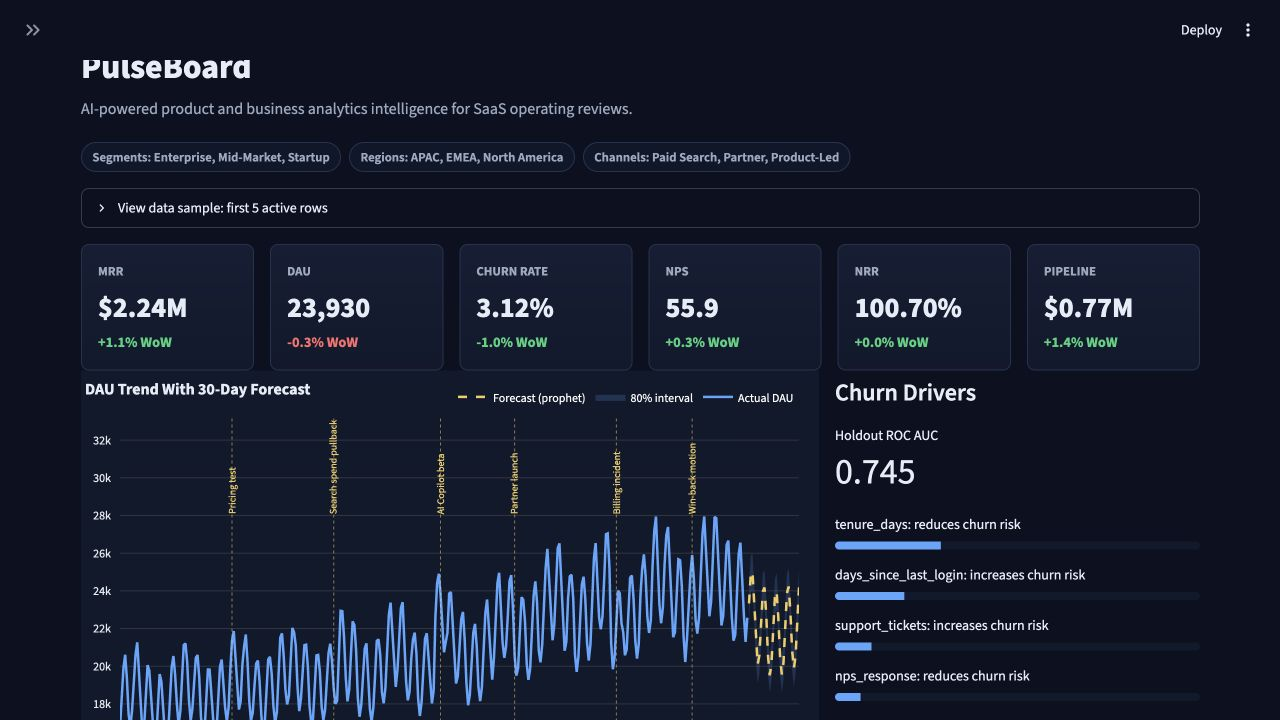
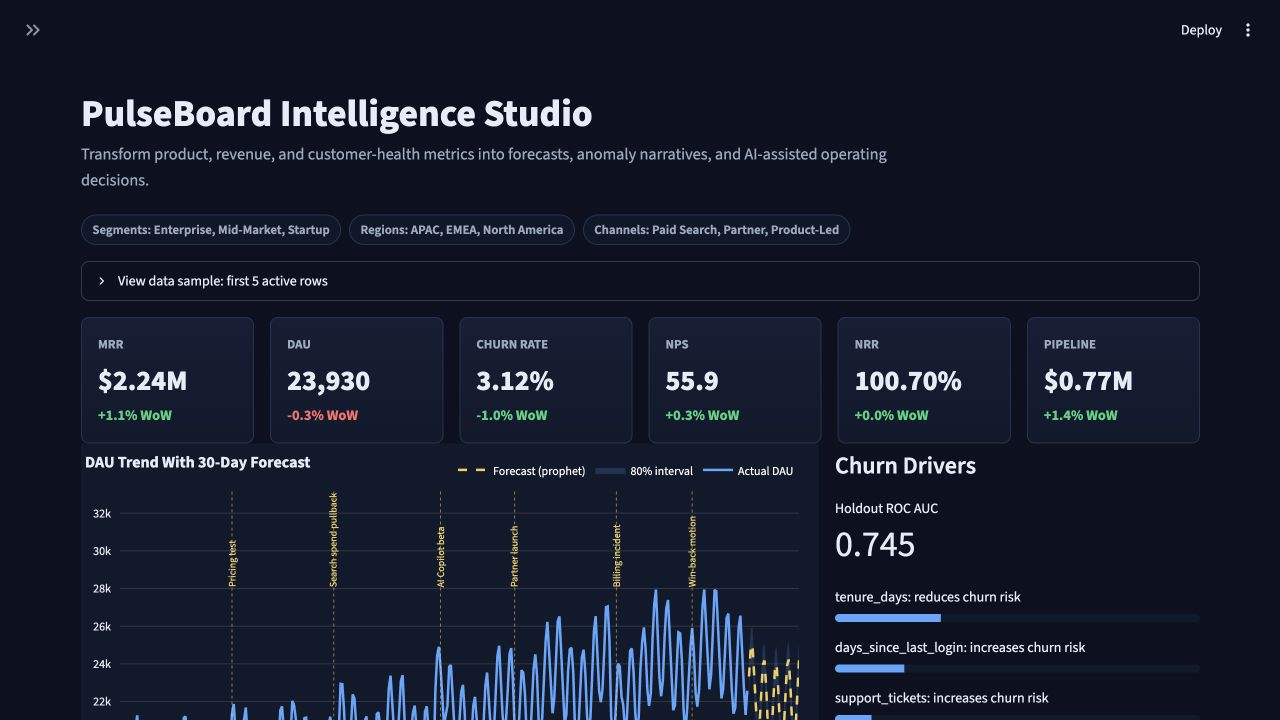
Refine dashboard title and README positioning

diff --git a/dashboard/layout.py b/dashboard/layout.py
@@ -41,10 +41,11 @@ def configure_page() -> None:
         }
         .stApp { background: var(--pb-bg); color: var(--pb-text); }
         [data-testid="stSidebar"] { background: #0e1628; border-right: 1px solid var(--pb-border); }
-        .block-container { padding-top: 1.5rem; padding-bottom: 2rem; }
+        .block-container { padding-top: 4rem; padding-bottom: 2rem; }
         h1, h2, h3 { letter-spacing: 0; }
-        .pb-title { font-size: 2.1rem; font-weight: 760; margin-bottom: 0.15rem; }
-        .pb-subtitle { color: var(--pb-muted); font-size: 1rem; margin-bottom: 1.25rem; }
+        .pb-header { margin-top: 0.75rem; margin-bottom: 1.35rem; }
+        .pb-title { font-size: 2.35rem; font-weight: 780; line-height: 1.15; margin-bottom: 0.35rem; }
+        .pb-subtitle { color: var(--pb-muted); font-size: 1.02rem; max-width: 820px; }
         .pb-card {
             background: linear-gradient(180deg, #151e35 0%, #11192c 100%);
             border: 1px solid var(--pb-border);
@@ -94,9 +95,13 @@ def configure_page() -> None:
 def render_header() -> None:
     """Render the dashboard title area."""
 
-    st.markdown('<div class="pb-title">PulseBoard</div>', unsafe_allow_html=True)
     st.markdown(
-        '<div class="pb-subtitle">AI-powered product and business analytics intelligence for SaaS operating reviews.</div>',
+        """
+        <div class="pb-header">
+            <div class="pb-title">PulseBoard Intelligence Studio</div>
+            <div class="pb-subtitle">Transform product, revenue, and customer-health metrics into forecasts, anomaly narratives, and AI-assisted operating decisions.</div>
+        </div>
+        """,
         unsafe_allow_html=True,
     )
 

diff --git a/README.md b/README.md
@@ -1,4 +1,4 @@
-# PulseBoard
+# PulseBoard Intelligence Studio
 
 [![Python 3.11+](https://img.shields.io/badge/python-3.11%2B-3776AB?logo=python&logoColor=white)](https://www.python.org/)
 [![Streamlit](https://img.shields.io/badge/Streamlit-dashboard-FF4B4B?logo=streamlit&logoColor=white)](https://streamlit.io/)
@@ -6,7 +6,7 @@
 [![Plotly](https://img.shields.io/badge/Plotly-visualization-3F4F75?logo=plotly&logoColor=white)](https://plotly.com/python/)
 [![Claude](https://img.shields.io/badge/Claude-executive%20insights-191919)](https://www.anthropic.com/)
 
-PulseBoard is an AI-powered Product & Business Analytics Intelligence Dashboard for SaaS metrics. It generates realistic product telemetry, runs forecasting and anomaly detection pipelines, explains churn drivers with SHAP, and turns weekly KPI movement into executive-ready narratives with Claude.
+PulseBoard Intelligence Studio is an AI-powered product and business analytics dashboard for turning SaaS operating metrics into clearer decisions. It works with either built-in synthetic data or uploaded CSV files, then layers forecasting, anomaly detection, churn-driver explanation, and AI-generated analysis on top of the data.
 
 ![PulseBoard dashboard screenshot](docs/pulseboard-screenshot.png)
 
@@ -14,10 +14,10 @@ Repository: [github.com/Robertcurzon/PulseBoard](https://github.com/Robertcurzon
 
 ## What It Shows
 
-- Synthetic SaaS data with 12 months of daily DAU, MAU, signups, churn, ARPU, MRR, feature adoption, NPS, A/B variants, retention cohorts, injected KPI anomalies, and annotated business events.
-- Filterable mock operating dataset across customer segments, regions, and acquisition channels so the dashboard can be used live in a portfolio walkthrough.
+- SaaS operating data from either the built-in synthetic dataset or an uploaded CSV, with support for up to 12 months of daily DAU, MAU, signups, churn, ARPU, MRR, feature adoption, NPS, A/B variants, retention cohorts, KPI anomalies, and annotated business events.
+- Filterable product and business views across customer segments, regions, and acquisition channels.
 - ML pipeline with feature engineering, churn prediction, Isolation Forest anomaly detection, Prophet-first forecasting with a statsmodels fallback, and SHAP feature attribution.
-- LLM insight generation using the Anthropic Python SDK with graceful offline placeholders when `ANTHROPIC_API_KEY` is not configured.
+- LLM insight generation using the Anthropic Python SDK, with graceful offline placeholders when `ANTHROPIC_API_KEY` is not configured.
 - Streamlit dashboard with dark executive styling, collapsible data preview, KPI cards, forecast overlays, segment mix, acquisition funnel, pipeline quality, feature adoption, anomaly narratives, cohort heatmaps, CSV upload, an AI analyst agent, and weekly insight feed.
 
 ## Architecture
@@ -64,9 +64,9 @@ PulseBoard is built for Streamlit hosting, so the easiest public demo path is:
 2. Create a new app in Streamlit Community Cloud.
 3. Point it at this repository, branch `main`, and app path `dashboard/app.py`.
 4. Add `ANTHROPIC_API_KEY` as an app secret if you want live Claude narratives. Leave it unset for deterministic offline demo text.
-5. Share the generated Streamlit app URL with colleagues.
+5. Share the generated Streamlit app URL with collaborators, stakeholders, or anyone who needs to explore the dashboard.
 
-After deployment, add the live app URL near the top of this README so recruiters and interviewers can open the dashboard directly.
+After deployment, add the live app URL near the top of this README so people can open the dashboard directly without cloning the repository.
 
 The same repo also works on Render, Railway, Hugging Face Spaces, or any Python web host that can run:
 
@@ -120,9 +120,9 @@ Good demo prompts:
 
 ## Case Study Walkthrough
 
-**Problem.** SaaS teams often have plenty of metrics but limited time to connect product usage, revenue movement, customer health, and operational incidents into an executive-ready story.
+**Problem.** Product and revenue teams often have plenty of metrics but limited time to connect product usage, conversion, retention, customer health, and operational incidents into a clear operating story.
 
-**Approach.** PulseBoard creates a realistic product analytics environment with segment, region, and acquisition-channel slices. It validates either built-in mock data or an uploaded CSV, then applies anomaly detection, forecasting, churn explanation, and LLM-generated narrative layers.
+**Approach.** PulseBoard creates a realistic analytics environment with segment, region, and acquisition-channel slices. It validates either built-in mock data or an uploaded CSV, then applies anomaly detection, forecasting, churn explanation, and AI-generated narrative layers.
 
 **ML and AI components.**
 
@@ -131,7 +131,7 @@ Good demo prompts:
 - SHAP explains churn model drivers in business-readable terms.
 - The AI Analyst Agent inspects KPI deltas, segment drivers, and anomaly context before producing a diagnosis and recommended actions.
 
-**Business value.** The dashboard helps stakeholders move from "what changed?" to "what should we do next?" It is designed for weekly business reviews, product launch readouts, funnel diagnostics, revenue risk reviews, and interview conversations about how analytics products can combine ML, LLMs, and user-centered design.
+**Business value.** The dashboard helps teams move from "what changed?" to "what should we do next?" It is designed for weekly business reviews, product launch readouts, funnel diagnostics, revenue risk reviews, and exploratory analysis workflows where ML, LLMs, and user-centered analytics can work together.
 
 ## Run The ML Pipeline
 
@@ -228,7 +228,7 @@ The default mock company behaves like a real B2B SaaS business:
 
 ## Portfolio Notes
 
-PulseBoard is intentionally designed as a senior DS/AI portfolio project: it demonstrates realistic metric simulation, production-shaped ML components, async LLM integration, testability, and a polished analytics UX without relying on proprietary data.
+PulseBoard is designed as a practical analytics intelligence prototype: it demonstrates realistic metric simulation, uploadable data workflows, production-shaped ML components, async LLM integration, testability, and a polished analytics UX without relying on proprietary data.
 
 ## License
 